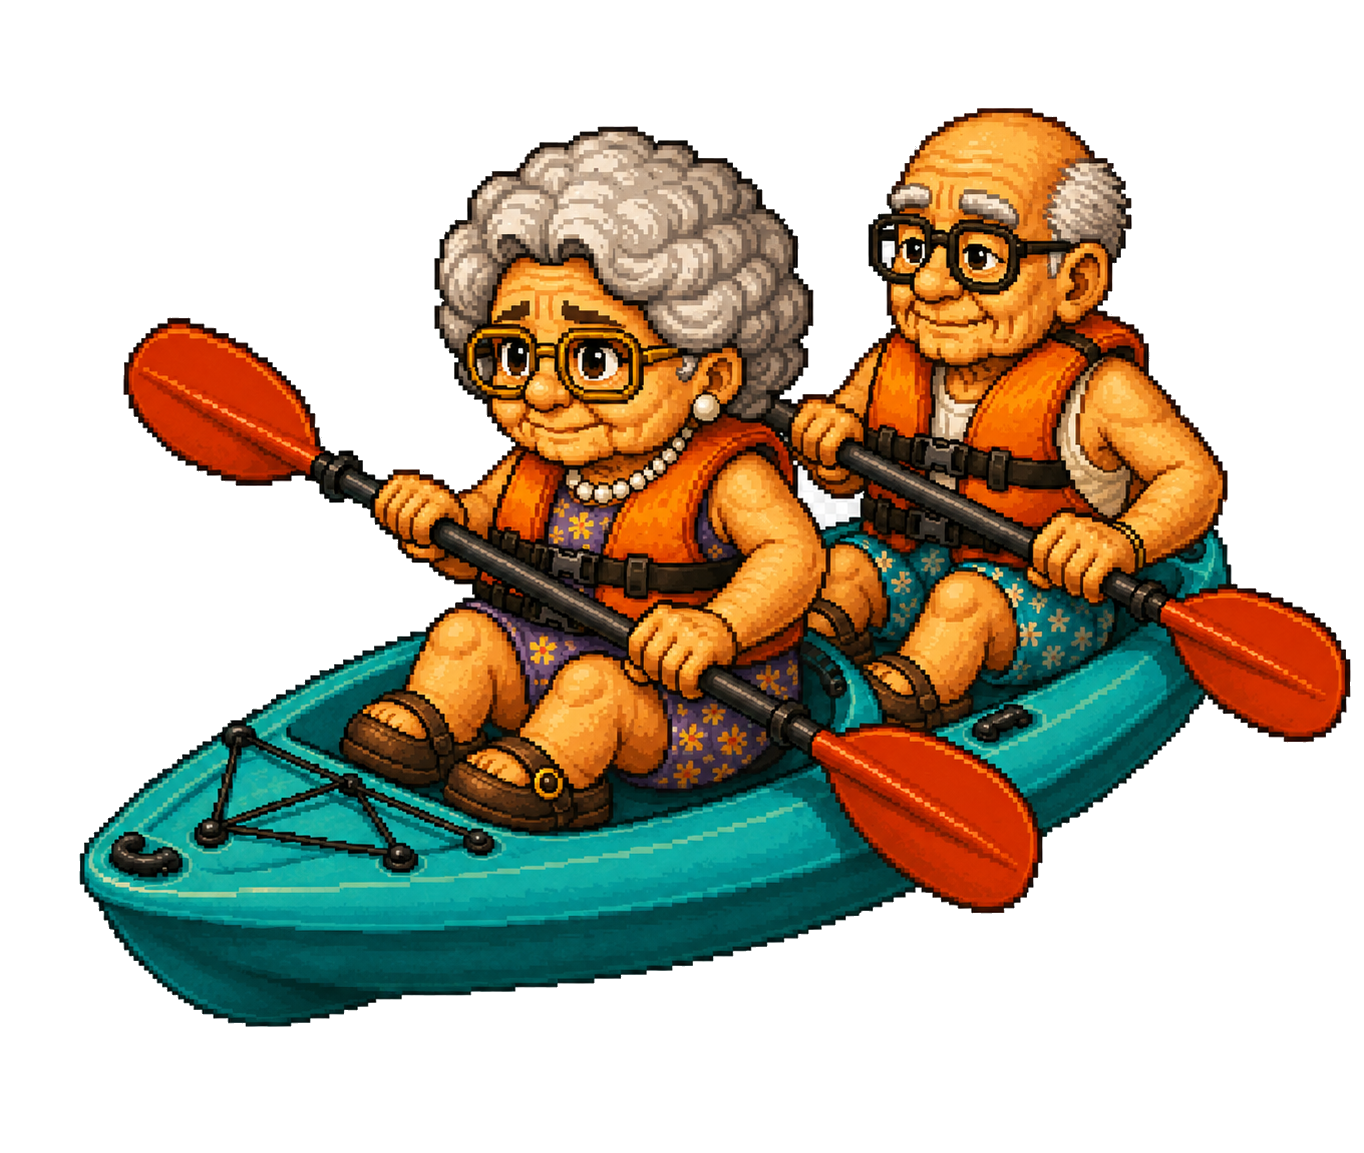
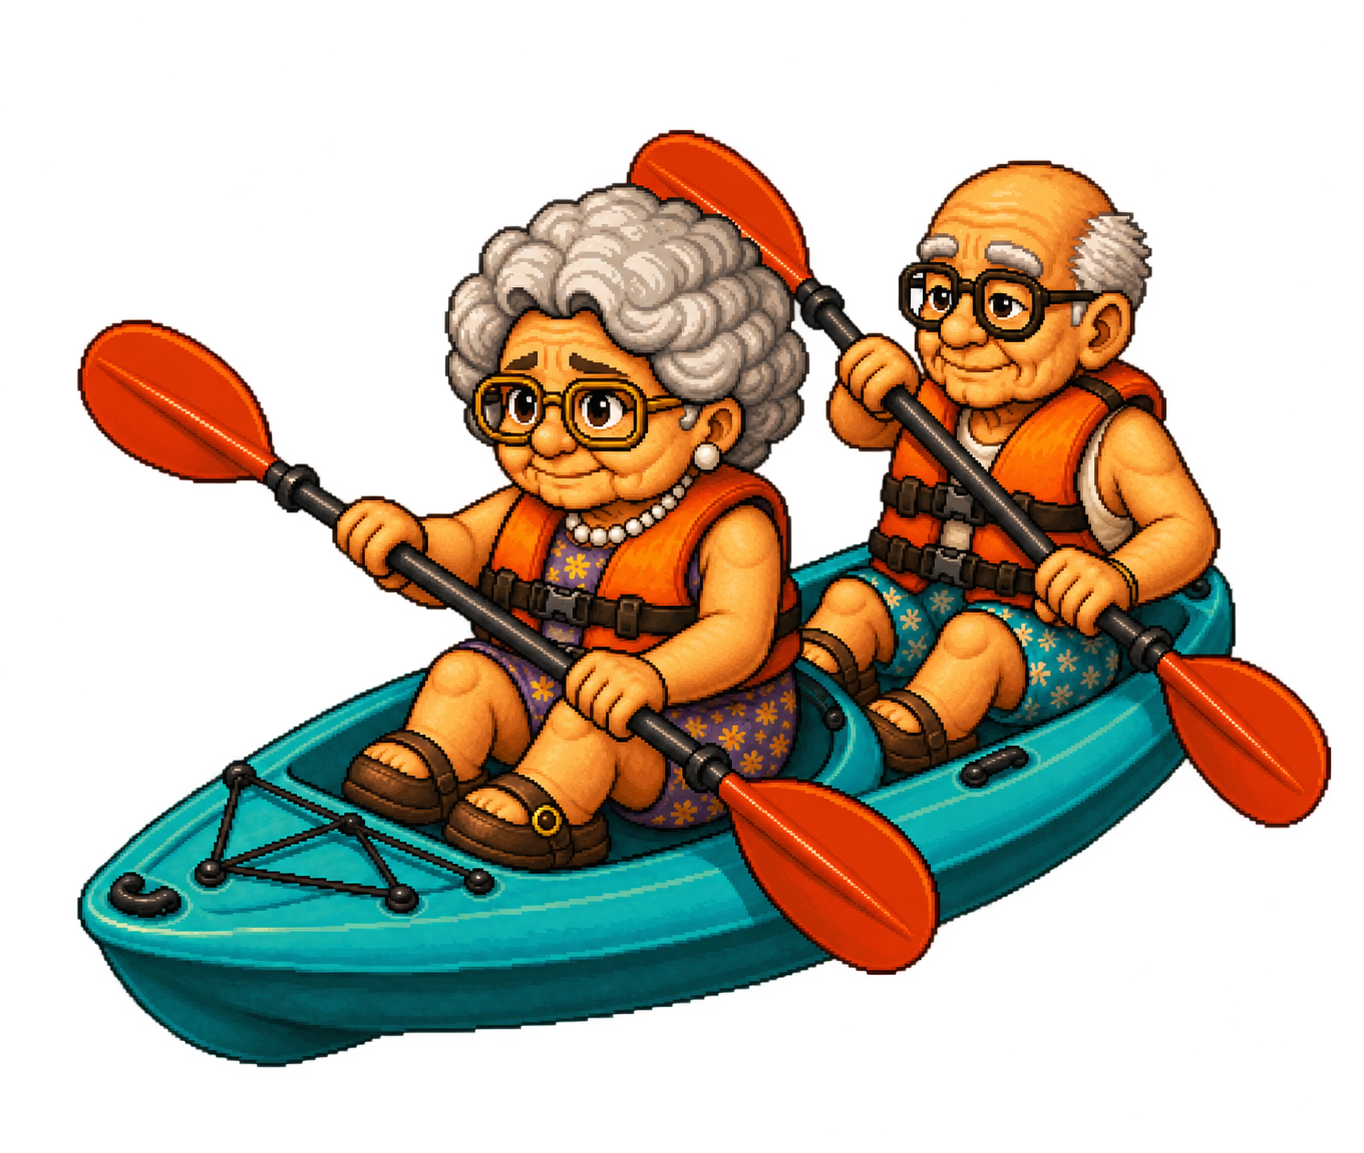
correction pass

diff --git a/test/version.test.js b/test/version.test.js
@@ -3,14 +3,18 @@ import assert from "node:assert/strict";
 import { readFile } from "node:fs/promises";
 import { CONFIG, VERSION } from "../src/config.js";
 
-test("active version references agree on v0.11.0", async () => {
+test("active version references agree on v0.11.1", async () => {
   const packageJson = JSON.parse(await readFile(new URL("../package.json", import.meta.url), "utf8"));
   const html = await readFile(new URL("../index.html", import.meta.url), "utf8");
 
-  assert.equal(VERSION, "v0.11.0");
-  assert.equal(packageJson.version, "0.11.0");
-  assert.equal(CONFIG.STORAGE_KEY, "surf-game-v0.11.0-records");
-  assert.match(html, /<title>Surf Game v0\.11\.0<\/title>/);
-  assert.match(html, /aria-label="Surf Game v0\.11\.0"/);
+  assert.equal(VERSION, "v0.11.1");
+  assert.equal(packageJson.version, "0.11.1");
+  assert.equal(CONFIG.STORAGE_KEY, "surf-game-v0.11.1-records");
+  assert.match(html, /<title>Surf Game v0\.11\.1<\/title>/);
+  assert.match(html, /aria-label="Surf Game v0\.11\.1"/);
   assert.doesNotMatch(html, /v0\.[34]\./);
+});
+
+test("production config defaults developer controls off", () => {
+  assert.equal(CONFIG.DEVELOPER_CONTROLS, false);
 });

diff --git a/src/config.js b/src/config.js
@@ -1,11 +1,11 @@
-export const VERSION = "v0.11.0";
+export const VERSION = "v0.11.1";
 
 const SURFER_DISPLAY_HEIGHT = 140;
 const SURFER_DISPLAY_WIDTH = 1199 * (SURFER_DISPLAY_HEIGHT / 1312);
 
 export const CONFIG = {
   DEBUG: false,
-  DEVELOPER_CONTROLS: true,
+  DEVELOPER_CONTROLS: false,
   DEBUG_START_STAGE: null,
   DEBUG_REDUCED_SPEED_MULTIPLIER: 1,
   WIDTH: 1024,
@@ -135,7 +135,7 @@ export const CONFIG = {
   WIPEOUT_SECONDS: 1,
   SCORE_TIME_MULTIPLIER: 100,
   SCORE_DODGE_VALUE: 500,
-  STORAGE_KEY: "surf-game-v0.11.0-records"
+  STORAGE_KEY: "surf-game-v0.11.1-records"
 };
 
 CONFIG.ENCOUNTER_SEQUENCE = [

diff --git a/index.html b/index.html
@@ -3,11 +3,11 @@
   <head>
     <meta charset="utf-8">
     <meta name="viewport" content="width=device-width, initial-scale=1">
-    <title>Surf Game v0.11.0</title>
+    <title>Surf Game v0.11.1</title>
     <link rel="stylesheet" href="styles.css">
   </head>
   <body>
-    <main class="game-shell" aria-label="Surf Game v0.11.0">
+    <main class="game-shell" aria-label="Surf Game v0.11.1">
       <canvas id="game" width="1024" height="576"></canvas>
     </main>
     <script type="module" src="src/main.js"></script>

diff --git a/test/encounterManager.test.js b/test/encounterManager.test.js
@@ -799,7 +799,7 @@ function gameStateAt(elapsedMs) {
 function gameOverEvent(diagnostics) {
   return {
     schemaVersion: "surf-run-diagnostics-v1",
-    gameVersion: "v0.11.0",
+    gameVersion: "v0.11.1",
     runId: diagnostics.runId,
     sequence: diagnostics.sequence + 1,
     elapsedSeconds: 1,
